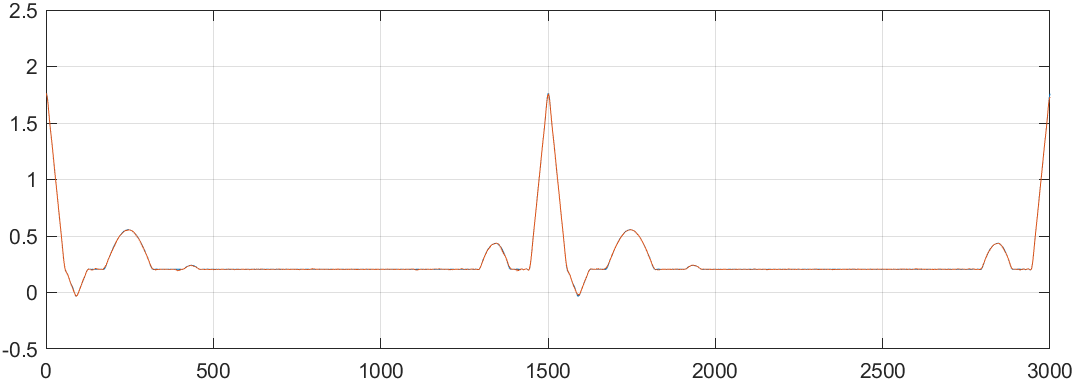
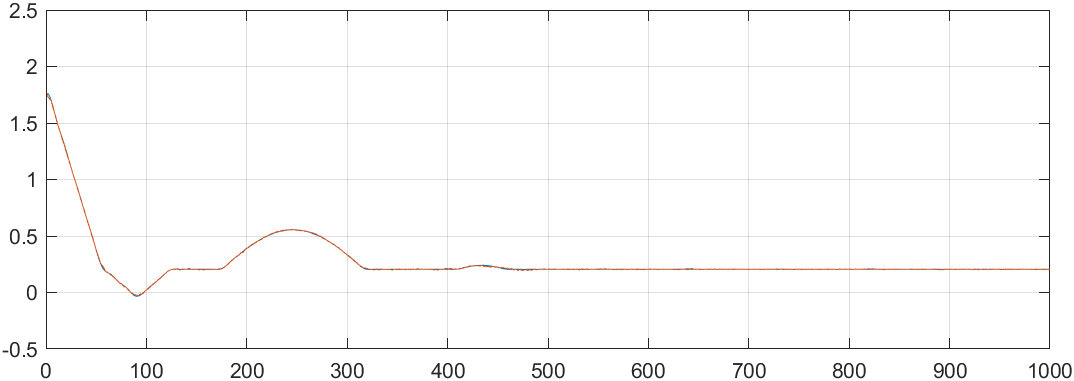
Trying dualsimplex

diff --git a/MatLab/playground_dualsimplex.m b/MatLab/playground_dualsimplex.m
@@ -1,9 +1,10 @@
-m = 30; n = 500;
-INTERVAL = [0,20];
+m = 50; n = 1000;
+INTERVAL = [0,5];
 PLOT_POINTS = 1000;
 x = rand(n,1);
 
 %signals = [@signal_square, @signal_triangle, @signal_sawtooth];
+%signal = @(x) (sin(5*x));
 signal = @sin;
 
 %Constructing matrix A,b,x
@@ -32,6 +33,7 @@ ds_A = [A';eye(ds_m)];
 ds_c = b;
 ds_b = [c;ones(m,1)*M];
 ds_B = linspace(ds_n+1, ds_m+ds_n, m);
+
 [ds_x, ds_y] = dualsimplex(ds_A,ds_b,ds_c,ds_B,'',0);
 ds_y = ds_y(:,1:ds_n)';
 ds_res = ds_y(1:n) - ds_y(n+1:end);
@@ -40,6 +42,9 @@ ds_res = ds_y(1:n) - ds_y(n+1:end);
 [ds_rec_x, ds_rec_y] = reconstruct(ds_res', PLOT_POINTS, INTERVAL);
 
 %Plotting
+fprintf('Size A %dx%d\n', size(ds_A,1),size(ds_A,2));
+fprintf('Size b %dx%d', size(ds_b,1),size(ds_b,2));
+
 x_point = linspace(INTERVAL(1),INTERVAL(end),PLOT_POINTS);
 y_point = signal(x_point);
 
@@ -62,3 +67,20 @@ hold on
 plot(ds_rec_x,ds_rec_y);
 legend('Original wave', 'Reconstructed wave')
 title('Dual Simplex Implementation')
+
+%Error ||Ax - b||_2
+err = norm(A*ds_y-b');
+
+%Objective function value ||x||_1
+fun_val = norm(ds_res, 1);
+
+%Computing MSE, Correlation Coefficient
+[mse, corr] = metrics(ds_rec_y, y_point);
+
+headers = {'n','m','err','f_val', 'MSE', 'CORR'};
+R = [n,m,err, fun_val, mse, corr];
+
+fprintf('\n');
+fprintf('|%20s|', headers{1:end});
+fprintf('\n');
+fprintf('|%20d||%20d||%20e||%20e||%20e||%20f|',R(1),R(2),R(3),R(4),R(5),R(6));

diff --git a/MatLab/dualsimplex.m b/MatLab/dualsimplex.m
@@ -3,7 +3,7 @@ function [x,y] = dualsimplex(A,b,c,B,state,verbose)
 [m, n] = size(A);
 ROWS = linspace(1,m,m);
 iteration  = 1;
-MAXITER = 5000;
+MAXITER = 50000;
 
 %Default basis if it is not provided
 if ~length(B)  
@@ -19,6 +19,7 @@ while(state == "" & MAXITER > iteration)
     A_b = A(B,:); A_N = A(N,:);
     b_b = b(B); b_N = b(N);
     A_b_inv = inv(A_b);
+    fprintf('Conditioning Number - %f', cond(A_b_inv))
 
     %Initialization of x_ and y_
     x =  A_b_inv*b_b;    

diff --git a/MatLab/ECG/playground_ecg.m b/MatLab/ECG/playground_ecg.m
@@ -1,5 +1,5 @@
 BPM = 40;
-SEC = 3;
+SEC = 1;
 RATE = 1000;
 CMP_RATE = 75;
 n = SEC*RATE;
